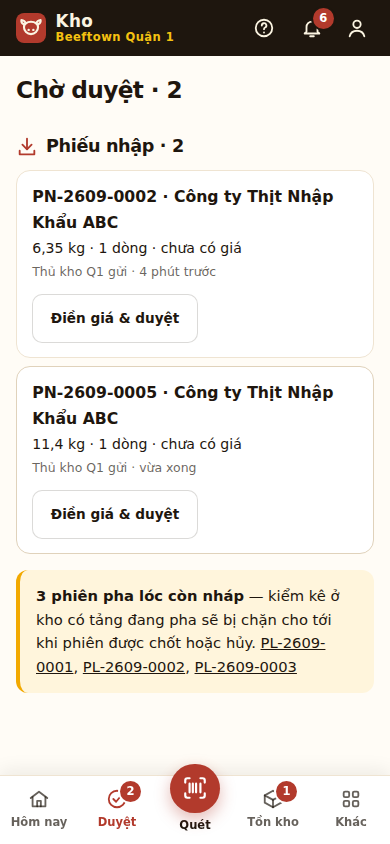
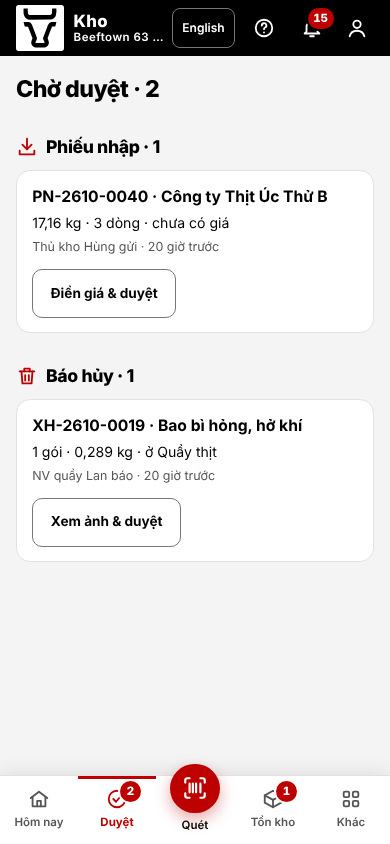
Kho: chụp lại 15 ảnh hướng dẫn theo bộ nhận diện 21/10/2026 (việc 8)
- web/public/kho/hd-*.png: cả 15 ảnh chụp lại ngày 30/10/2026 trên giao diện mới (đầu
  trang đen, nền xám nhạt, thẻ trắng, trạng thái K1–K7) — cùng tên, cùng cỡ, cùng màn.
  Dữ liệu mô phỏng trên database cục bộ, không dữ liệu thật; ảnh hóa đơn là ảnh mẫu.
- crm/test/test-kho-giao-dien.mjs nhóm 5: hai kiểm tra mới — đầu trang đen #000000,
  không mảng màu nào của bảng cũ (ảnh cũ đỏ cả hai trước khi thay).
- Tài liệu: web/KHO.md (cách chụp lần này, bỏ ghi chú ảnh cũ), THUONG-HIEU.md (việc 8
  xong, mục 5), web/THIET-KE.md, README.md, AGENTS.md, CLAUDE.md.

Claude-Session: https://claude.ai/code/session_01VGjniGAyW5H2WASB8a3MNd

diff --git a/THUONG-HIEU.md b/THUONG-HIEU.md
@@ -105,7 +105,7 @@ Việc 3, 5, 6 làm chung trong PR 1 "Đổi nhận diện website". Trang "Mua 
 | 5 | Logo, biểu tượng, ảnh chia sẻ theo bộ mới | Claude Code | PR 1: `tach-logo.mjs` (10 SVG) rồi `web/cong-cu/thuong-hieu/tao-bieu-tuong.py` (`bieu-tuong.svg`, `favicon.ico`, 2 PNG thương hiệu, 4 biểu tượng kho); xóa 14 SVG của bộ cũ |
 | 6 | `theme-color` | Claude Code | PR 1: `#000000` ở 3 layout; `web/public/kho/manifest.json`: `theme_color` `#000000`, `background_color` `#F4F4F4` |
 | 7 | Beeftown Cân đổi thẳng sang bộ 21/10/2026: khối `:root` của 2 file HTML, nền theo câu 4, bỏ màu trạng thái (câu 2), logo và biểu tượng theo bộ mới, tăng `PHIEN_BAN` | Claude Code | Xong ở bản 2.12 (PR riêng, 30/10/2026): nền trang `#F4F4F4`, thẻ trắng, đầu trang đen như kho; nhãn K1–K7; logo phụ trắng và biểu tượng cửa sổ lấy thẳng file của `web/public` (`can-app/src/nhan-dien.ts`); kiểm thử `crm/test/test-can-nhan-dien.mjs`. Biểu tượng của file `.exe` vẫn mặc định (mục 5) |
-| 8 | Chụp lại 15 ảnh `web/public/kho/hd-*.png` | Claude Code | Sau khi PR 1 gộp |
+| 8 | Chụp lại 15 ảnh `web/public/kho/hd-*.png` | Claude Code | Xong (PR riêng, 30/10/2026): cả 15 ảnh chụp lại trên giao diện bộ 21/10/2026, cùng tên, cùng cỡ, dữ liệu mô phỏng (`web/KHO.md` mục 3i); `crm/test/test-kho-giao-dien.mjs` nhóm 5 kiểm đầu trang đen, không mảng màu cũ |
 | 9 | Deploy website sau khi PR 1 gộp và CI xanh; xem lại trang chủ, Thực đơn, `/noi-bo`, kho trên điện thoại; Facebook Sharing Debugger → "Scrape Again" cho `/`, `/en`, `/ko`; ai đã thêm app kho vào màn hình chính thì xóa và thêm lại | Khánh | Sau PR 1 |
 | 10 | Mini App: thay 4 logo PNG trong `mini-app/src/assets/` bằng SVG của bộ mới; chốt hoặc bỏ 3 màu chưa duyệt | Claude Code | PR Mini App |
 | 11 | Trang "Mua thịt về" | Claude Code | PR 2, sau PR 1 |
@@ -316,6 +316,14 @@ Các điểm phải giữ:
 
 ## 5. Nơi đã đổi và thứ còn mang nhận diện cũ
 
+Đã đổi lần năm — 15 ảnh trong trang hướng dẫn của kho (việc 8, PR riêng, 30/10/2026):
+
+| Nơi | Đổi gì |
+|---|---|
+| `web/public/kho/hd-*.png` (15 ảnh) | Chụp lại cả bộ trên giao diện bộ 21/10/2026 — đầu trang đen, nền xám nhạt, thẻ trắng, trạng thái K1–K7 — cùng tên, cùng cỡ (390 × 844; `hd-menu` 390 × 69); dữ liệu mô phỏng, không dữ liệu thật (`web/KHO.md` mục 3i) |
+| Kiểm thử | `crm/test/test-kho-giao-dien.mjs` nhóm 5: đầu trang đen `#000000`, không mảng màu nào của bảng cũ (ảnh cũ: 8–57 % số điểm mang mã cũ) |
+| Tài liệu | File này, `web/KHO.md`, `web/THIET-KE.md`, `README.md`, `AGENTS.md`, `CLAUDE.md` |
+
 Đã đổi lần bốn — Beeftown Cân 2.12 (việc 7, PR riêng, bộ nhận diện 21/10/2026):
 
 | Nơi | Đổi gì |
@@ -384,7 +392,6 @@ Còn mang nhận diện cũ:
 
 | Nơi | Ghi gì | Việc |
 |---|---|---|
-| 15 ảnh `web/public/kho/hd-*.png` | Ảnh chụp màn hình trong trang hướng dẫn của kho (`/noi-bo/kho/huong-dan`), chụp trước ngày 11/10/2026: giao diện bảng trước 09/10/2026, thẻ trắng. **Chụp lại sau PR 1** (`web/KHO.md`, mục 3i) | 8 |
 | Mini App Zalo (`mini-app/`) | 4 logo PNG trong `mini-app/src/assets/`; 3 màu chưa duyệt (câu còn mở 1) | 10 |
 | Bộ nhớ đệm ngoài | Ảnh xem trước cũ trên Facebook / Zalo; biểu tượng cũ của app kho đã cài trên điện thoại | 9 |
 | Hai tài liệu cũ ở gốc repo (`Beeftown_Bo_Nhan_Dien_So.html`, `Beeftown_CRM_Design.html`) | Làm trước guideline; không phát hành, không sửa, không chép | — |

diff --git a/AGENTS.md b/AGENTS.md
@@ -60,7 +60,7 @@ Màu. Cả website — trang công khai, `/noi-bo`, kho — dùng bảng 22/10/2
 - Báo khi PR đổi một mã ở khối `.ck` mà không đổi `:root` của `chung.css` (hay ngược lại), và khi đổi màu một file HTML của Beeftown Cân mà không đổi file kia (hay đổi `chung.css` mà không đổi hai file đó — mỗi lần đổi màu của Beeftown Cân là một `PHIEN_BAN` mới).
 - Báo chữ thường màu đỏ hay đỏ đậm trên nền đen (3,16 và 2,17 : 1), chữ `#555555` trên nền đen (2,82 : 1), và chữ, viền ô hay biểu tượng `#E2E2E2` / `#F4F4F4` trên nền sáng (1,30 / 1,10 : 1).
 - `/noi-bo` và kho không có màu trạng thái riêng (Khánh bỏ xanh, vàng, đỏ nhạt ngày 25/10/2026): trạng thái phân biệt bằng chữ, dấu (✓, "!", tam giác) và nét (liền, đứt, nền đặc / rỗng) — bảy kiểu K1–K7 ở `THUONG-HIEU.md` mục 4, khai trong `web/src/styles/noi-bo.css` (Beeftown Cân: `.nhan-l` trong `can-app/src/giao-dien.html`, `.nhan` trong `can-app/src/huong-dan.html`). Báo khi PR thêm màu xanh, vàng hay nền màu nhạt; khi hai trạng thái đứng cạnh nhau chỉ khác nhau bằng màu; khi câu nhân viên đọc gọi trạng thái bằng tên màu ("đèn vàng", "hiện xanh"); khi một trang nội bộ gõ mã màu thay vì dùng biến; khi ô nhập kẻ viền bằng màu mờ hơn `--vien-o`. Mã mức trong mã và database (`'xanh'`, `'vang'`, `'do'`, `'tat'`) giữ tên — không báo; lớp CSS của Beeftown Cân thì không mang tên màu (`.nhan-l.cho`…, `.den.noi`, `.den.loi`, `.so-o .o.gap`).
-- 15 ảnh `web/public/kho/hd-*.png` (trang hướng dẫn của kho) chụp trước 11/10/2026 và trước PR 1, còn giao diện cũ: không báo, cho tới khi chúng được chụp lại (việc 8).
+- 15 ảnh `web/public/kho/hd-*.png` (trang hướng dẫn của kho) chụp lại ngày 30/10/2026 trên giao diện bộ 21/10/2026 (việc 8; `crm/test/test-kho-giao-dien.mjs` nhóm 5 kiểm đầu trang đen, không mảng màu cũ). Báo khi PR đổi nhiều một màn có ảnh trong `web/src/lib/kho/huong-dan.ts` mà không chụp lại ảnh đó (`web/KHO.md` mục 3i).
 - Trang công khai nền trắng; đen làm điểm nhấn (đầu trang, vài dải, chân trang); đỏ cho nút, nhãn, giá (Khánh quyết 25/10/2026). Báo tên màu CSS (`white`…), mã 3 chữ số, mã trắng ngà hay `color-mix` với trắng trong file của trang công khai, `/noi-bo` và kho — trắng chỉ viết `#FFFFFF` hoặc `var(--kem)`; ô nhập, ô đánh dấu, nút chọn tệp của trình duyệt dùng token. Thẻ nhãn khay (`web/src/components/NhanKhay.astro`) đặt thẳng, không bóng đổ, chỉ ghi tên 5 trường, không có giá trị mẫu, logo chính đỏ. Beeftown Cân: ngoài khối `:root` chỉ dùng biến; đầu trang là logo phụ trắng do `can-app/src/nhan-dien.ts` đặt vào — báo chữ BEEFTOWN gõ bằng phông.
 - Thành phần của trang công khai (`web/THIET-KE.md` mục 3–5, đo ở `web/kiem-tra/do-giao-dien.mjs`): mọi thứ bấm được cao ít nhất 48px; nút phụ trên nền sáng là nền trắng, chữ và viền đỏ; mỗi nhóm nút một nút chính; thẻ không bóng đổ; ô nhập nền trắng, viền `--vien-o`, nhãn ở trên ô; mọi `:hover` nằm trong `@media (hover: hover)`; lớp phủ và khoá cuộn của menu gọn chỉ có khi script đã chạy. Báo khi PR thêm thành phần lệch các số đó, hoặc gỡ một ngoại lệ trong `do-giao-dien.mjs` mà không sửa thành phần tương ứng.
 

diff --git a/web/KHO.md b/web/KHO.md
@@ -638,19 +638,24 @@ dùng** — link đã lưu, nút "?" và trang chia sẻ trỏ vào đó. Các i
 trang). Chụp từ **Supabase giả** (không bao giờ dữ liệu thật) bằng Playwright: `astro dev` trỏ vào một
 Supabase giả chạy cục bộ (máy chủ HTTP giả, để ngoài repo), đăng nhập `chu@test`, `ql@test`, `tk@test`, `nv@test`, `kt@test` / `matkhau`, viewport
 390×844, `deviceScaleFactor: 1`, chụp khung nhìn (không `fullPage`) hoặc crop phần chính; mỗi ảnh
-≤ 120KB. Script chụp để ngoài repo (scratchpad `chup-huong-dan.mjs` của phiên GĐ6); chụp lại khi giao
-diện màn đó đổi nhiều. Danh sách tên: `hd-trang-chu-thu-kho`, `hd-nhan-hang`, `hd-nhan-hang-dong`,
-`hd-pha-loc`, `hd-quet`, `hd-quay-hom-nay`, `hd-yeu-cau`, `hd-dem-quay`, `hd-bao-huy`, `hd-hom-nay`,
-`hd-duyet`, `hd-dien-gia`, `hd-cong-no`, `hd-thiet-lap`, `hd-menu` (thanh đáy, 390×69).
+≤ 120KB. Script chụp để ngoài repo; chụp lại khi giao diện màn đó đổi nhiều. Danh sách tên:
+`hd-trang-chu-thu-kho`, `hd-nhan-hang`, `hd-nhan-hang-dong`, `hd-pha-loc`, `hd-quet`, `hd-quay-hom-nay`,
+`hd-yeu-cau`, `hd-dem-quay`, `hd-bao-huy`, `hd-hom-nay`, `hd-duyet`, `hd-dien-gia`, `hd-cong-no`, `hd-thiet-lap`,
+`hd-menu` (thanh đáy, 390×69).
 
-> **Cả 15 ảnh còn giao diện bảng màu cũ, thẻ trắng.** Kho đổi bảng màu hai lần — ngày 12/10/2026 và ở PR
-> "Đổi nhận diện website" (bộ 21/10/2026); ảnh chụp trước cả hai lần và chưa chụp lại. Trang hướng dẫn vì vậy đang hiện ảnh màu cũ cạnh giao diện màu
-> mới — chụp lại cả bộ (cùng cỡ file, cùng tên) rồi xóa ghi chú này và dòng tương ứng ở
-> `THUONG-HIEU.md` mục 5.
+Lần chụp gần nhất: **30/10/2026**, cả 15 ảnh, giao diện bộ nhận diện 21/10/2026 (`THUONG-HIEU.md` mục 0, việc 8).
+Database cục bộ dựng từ dữ liệu mô phỏng 5 tuần (73 mặt hàng, 517 lô), chạy đủ migration của main, ngày dời cho dữ
+liệu kết thúc ngày hôm trước; ảnh hóa đơn là ảnh mẫu ghi "BẢN MẪU". Mỗi lần chạy script bắt đầu từ cùng một bản
+database: ảnh chỉ đọc chụp trước, ảnh phải ghi chụp sau — nhận hàng (chụp hóa đơn → thêm hai tảng), pha lóc (mở
+phiên, máy quầy báo cân đã nhận tên ô qua `kho_may_can_bao` như Beeftown Cân, quét hai nhãn), đếm quầy (quét hai nhãn).
+Một số màn chụp phần chính thay vì đầu trang: `hd-dien-gia` (ảnh hóa đơn và ô đơn giá đầu tiên), `hd-nhan-hang-dong`
+(danh sách "Hàng đã cân" và số tảng vừa thêm), `hd-pha-loc` (ô quét, bốn số của phiên). Ô chọn tệp, ô ngày hiện chữ
+tiếng Anh của Chromium chạy thử — máy thật đặt tiếng Việt thì hiện tiếng Việt.
 
 **Test**: `crm/test/test-kho-giao-dien.mjs` nhóm 5 — mọi trang kho (trừ Hướng dẫn) có `huongDan` trỏ
 mục có thật; id không trùng, đúng dạng, giữ id cũ; ≥ 15 câu hỏi; ảnh có file, là PNG đúng cỡ, ≤ 120KB;
-link có thật; phần thủ kho / NV quầy không nhắc tiền; `dinhDang` escape đúng.
+ảnh chụp giao diện bộ 21/10/2026 (đầu trang đen `#000000`, không mảng màu nào của bảng cũ); link có thật; phần
+thủ kho / NV quầy không nhắc tiền; `dinhDang` escape đúng.
 
 ## 3j. Đồng bộ bán hàng iPOS (GĐ7a 0037 · GĐ7c 0042 · iPOS DW cho FABi 27/10/2026)
 

diff --git a/CLAUDE.md b/CLAUDE.md
@@ -15,12 +15,12 @@ rà soát" *sau khi* tính năng đã gộp. Mục tiêu: chặn chúng *trướ
 | `may-chu-don/` | Máy chủ đơn của Mini App (Bun, SQLite): nhận đơn trả trước, màn hình đơn cho quầy. Chạy ở Việt Nam (dữ liệu khách Mini App không lên Supabase, Cloudflare) — laptop thử, máy chủ thuê khi mở bán. Thu tiền chuyển khoản VietQR qua SePay; Mini App chưa gửi đơn lên (đợt 2b) | `may-chu-don/CLAUDE.md`, `may-chu-don/README.md` |
 | `mo-rong-fabi/` | Mở rộng FABi (extension Chrome, Manifest V3): trên FABi CMS, đưa món mới của kho vào hộp thoại "Thêm món từ file" — người dùng tự bấm Lưu. Không `package.json`, cài bằng "Tải tiện ích đã giải nén" | `mo-rong-fabi/README.md` |
 
-Bảng màu thương hiệu đã chốt, giá trị đã áp dụng và thứ còn mang màu cũ (ảnh hướng dẫn kho, Mini App): `THUONG-HIEU.md`. Codex và các agent khác đọc `AGENTS.md` (cùng quy trình này).
+Bảng màu thương hiệu đã chốt, giá trị đã áp dụng và thứ còn mang màu cũ (Mini App): `THUONG-HIEU.md`. Codex và các agent khác đọc `AGENTS.md` (cùng quy trình này).
 Bộ nhận diện 21/10/2026 (Brand Guidelines của designer) và bảng đỏ `#BD0000`, đen, trắng Khánh chốt 22/10/2026
 (`THUONG-HIEU.md` mục 0) đã áp cho cả `web/` — trang công khai nền trắng, `/noi-bo` và kho không màu trạng thái — cùng
-logo SVG tách từ PDF guideline (`web/public/thuong-hieu/`); Beeftown Cân theo cùng bảng từ bản 2.12 (việc 7). Kiểm thử
-canh bảng mới. Còn nhận diện cũ: ảnh hướng dẫn kho `hd-*.png` (việc 8), Mini App (việc 10). Đừng đổi màu lẻ tẻ ngoài
-các PR của danh sách ở mục 0.
+logo SVG tách từ PDF guideline (`web/public/thuong-hieu/`); Beeftown Cân theo cùng bảng từ bản 2.12 (việc 7), ảnh
+hướng dẫn kho `hd-*.png` chụp lại ngày 30/10/2026 (việc 8). Kiểm thử canh bảng mới. Còn nhận diện cũ: Mini App (việc 10).
+Đừng đổi màu lẻ tẻ ngoài các PR của danh sách ở mục 0.
 
 Quy ước chung:
 - Tên hàm, biến, chú thích, tài liệu viết **tiếng Việt không tắt**, giống mã đang có.
